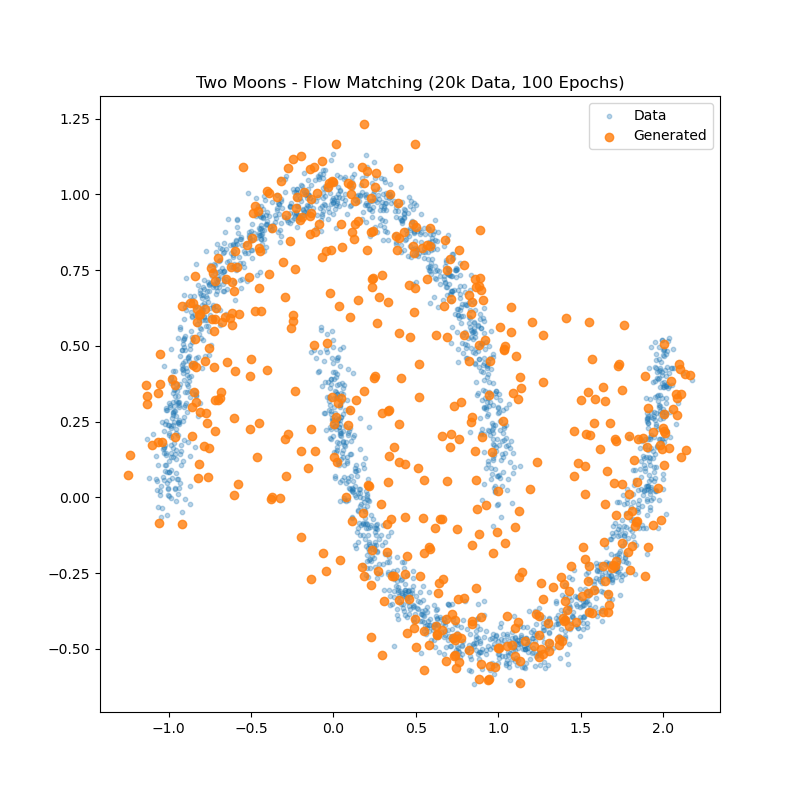
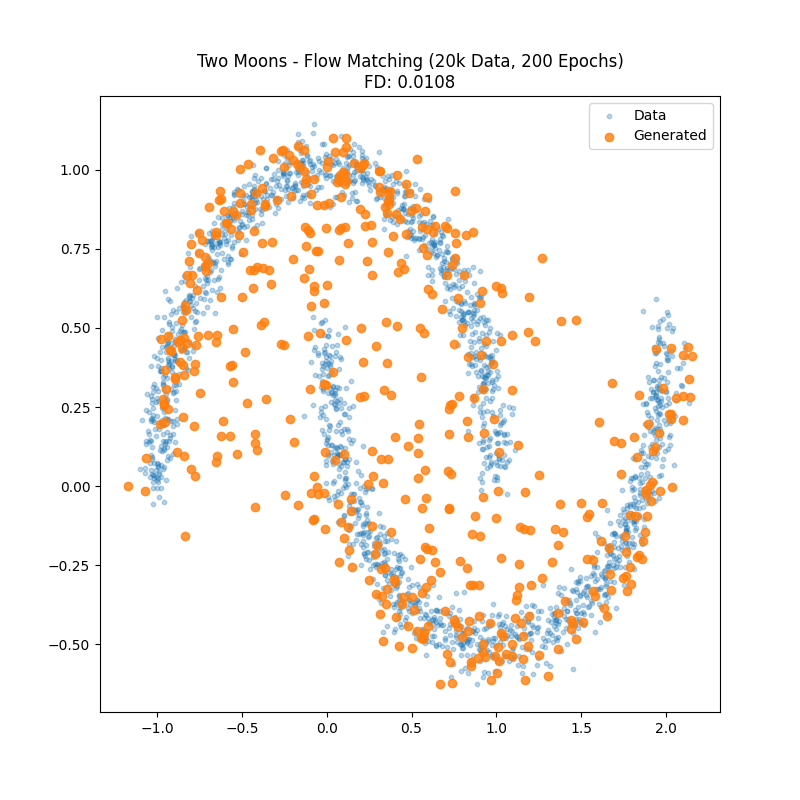
Fix CFG unconditional sampling and add Fréchet distance evaluation to examples

diff --git a/examples/two_moons_diffusion.py b/examples/two_moons_diffusion.py
@@ -12,6 +12,7 @@ from generative_lib.diffusion.trainer.base import BaseDiffusionTrainer
 from generative_lib.diffusion.sampler.base import BaseDiffusionSampler
 from generative_lib.utils.logger import Logger
 from generative_lib.utils.tracker import ModelTracker
+from generative_lib.metrics.distance import calculate_frechet_distance, compute_statistics
 
 # 1. Model Definition
 class SinusoidalPosEmb(nn.Module):
@@ -49,7 +50,6 @@ class SimpleMLP(nn.Module):
         if t.dtype == torch.float: t = (t * 1000).long().clamp(0, 999)
         elif t.ndim == 2: t = t.squeeze(-1).long()
         t_emb = self.time_mlp(t)
-        if condition is None: condition = torch.zeros(x.shape[0], 1, device=x.device)
         inp = torch.cat([x, condition, t_emb], dim=-1)
         return self.net(inp)
 
@@ -86,15 +86,15 @@ def main():
         method=method,
         model=model,
         optimizer=optimizer,
-        feature_keys=["position"],
-        label_keys=["class"], 
+        feature_keys=["class"],
+        label_keys=["position"], 
         device=device,
         tracker=tracker
     )
     
     # 4. Train
     print("Training CFG Diffusion (Dual Loss)...")
-    trainer.fit(train_loader, epochs=50) # 50 epochs for speed
+    trainer.fit(train_loader, epochs=200) # 200 epochs
     
     # 5. Sampling
     print("Sampling Comparison...")
@@ -105,31 +105,45 @@ def main():
     
     # Sampler 1: DDPM (Standard)
     # w=1.0 means cond only (no guidance)
-    sampler_ddpm = BaseDiffusionSampler(method, model, device, steps=50, sampler_type="ddpm", guidance_scale=1.0, label_keys=["class"])
+    sampler_ddpm = BaseDiffusionSampler(method, model, device, steps=50, sampler_type="ddpm", guidance_scale=1.0, feature_keys=["class"])
     s_ddpm = sampler_ddpm.sample(num_samples=1, shape=[2], condition=cond).squeeze(1).detach().cpu().numpy()
     
     # Sampler 2: DDIM (Deterministic) w=1.0
-    sampler_ddim = BaseDiffusionSampler(method, model, device, steps=50, sampler_type="ddim", guidance_scale=1.0, label_keys=["class"])
+    sampler_ddim = BaseDiffusionSampler(method, model, device, steps=50, sampler_type="ddim", guidance_scale=1.0, feature_keys=["class"])
     s_ddim = sampler_ddim.sample(num_samples=1, shape=[2], condition=cond).squeeze(1).detach().cpu().numpy()
     
     # Sampler 3: DDIM with CFG w=3.0
-    sampler_cfg = BaseDiffusionSampler(method, model, device, steps=50, sampler_type="ddim", guidance_scale=3.0, unconditional_value=-1.0, label_keys=["class"])
+    sampler_cfg = BaseDiffusionSampler(method, model, device, steps=50, sampler_type="ddim", guidance_scale=3.0, unconditional_value=-1.0, feature_keys=["class"])
     s_cfg = sampler_cfg.sample(num_samples=1, shape=[2], condition=cond).squeeze(1).detach().cpu().numpy()
+    
+    print("Computing metrics...")
+    mu_real, sig_real = compute_statistics(X_norm)
+    mu_ddpm, sig_ddpm = compute_statistics(s_ddpm)
+    fd_ddpm = calculate_frechet_distance(mu_real, sig_real, mu_ddpm, sig_ddpm)
+    print(f"FD DDPM (w=1.0): {fd_ddpm:.4f}")
+    
+    mu_ddim, sig_ddim = compute_statistics(s_ddim)
+    fd_ddim = calculate_frechet_distance(mu_real, sig_real, mu_ddim, sig_ddim)
+    print(f"FD DDIM (w=1.0): {fd_ddim:.4f}")
+    
+    mu_cfg, sig_cfg = compute_statistics(s_cfg)
+    fd_cfg = calculate_frechet_distance(mu_real, sig_real, mu_cfg, sig_cfg)
+    print(f"FD DDIM CFG (w=3.0): {fd_cfg:.4f}")
     
     # 6. Plot
     fig, axes = plt.subplots(1, 3, figsize=(18, 6))
     
-    def plot_data(ax, data, title):
+    def plot_data(ax, data, title, fd):
         # Denorm
         d = data * X_std + X_mean
         ax.scatter(d[:250, 0], d[:250, 1], c='cyan', label='Class 0', alpha=0.6, s=10)
         ax.scatter(d[250:, 0], d[250:, 1], c='orange', label='Class 1', alpha=0.6, s=10)
-        ax.set_title(title)
+        ax.set_title(f"{title}\nFD: {fd:.4f}")
         ax.legend()
 
-    plot_data(axes[0], s_ddpm, "DDPM (w=1.0)")
-    plot_data(axes[1], s_ddim, "DDIM (w=1.0)")
-    plot_data(axes[2], s_cfg, "DDIM CFG (w=3.0)")
+    plot_data(axes[0], s_ddpm, "DDPM (w=1.0)", fd_ddpm)
+    plot_data(axes[1], s_ddim, "DDIM (w=1.0)", fd_ddim)
+    plot_data(axes[2], s_cfg, "DDIM CFG (w=3.0)", fd_cfg)
     
     plt.tight_layout()
     plt.savefig("examples/two_moons_cfg_comparison.png")

diff --git a/examples/two_moons_flow.py b/examples/two_moons_flow.py
@@ -9,6 +9,7 @@ from generative_lib.flow_matching.method.flow_matching import FlowMatching
 from generative_lib.flow_matching.trainer.base import BaseFlowMatchingTrainer
 from generative_lib.flow_matching.sampler.base import BaseFlowMatchingSampler
 from generative_lib.utils.logger import Logger
+from generative_lib.metrics.distance import calculate_frechet_distance, compute_statistics
 
 class SimpleMLP(nn.Module):
     def __init__(self, in_features=2, hidden_features=64):
@@ -50,14 +51,14 @@ def main():
         method=method,
         model=model,
         optimizer=optimizer,
-        feature_keys=["features"],
-        label_keys=[], 
+        feature_keys=[],
+        label_keys=["features"], 
         device=device
     )
     
     # 4. Train
-    print("Training Flow Matching (20k samples, 100 epochs)...")
-    trainer.fit(train_loader, epochs=100)
+    print("Training Flow Matching (20k samples, 200 epochs)...")
+    trainer.fit(train_loader, epochs=200)
     
     # 5. Sample
     print("Sampling...")
@@ -74,6 +75,12 @@ def main():
     # 6. Verify
     samples_np = samples.detach().cpu().numpy()
     
+    print("Computing metrics...")
+    mu_real, sig_real = compute_statistics(X)
+    mu_gen, sig_gen = compute_statistics(samples_np)
+    fd_flow = calculate_frechet_distance(mu_real, sig_real, mu_gen, sig_gen)
+    print(f"FD Flow Matching: {fd_flow:.4f}")
+    
     # Plot results
     # Downsample Data for plot clarity
     X_plot = X[:2000]
@@ -82,7 +89,7 @@ def main():
     plt.scatter(X_plot[:, 0], X_plot[:, 1], alpha=0.3, label="Data", s=10)
     plt.scatter(samples_np[:, 0], samples_np[:, 1], alpha=0.8, label="Generated")
     plt.legend()
-    plt.title("Two Moons - Flow Matching (20k Data, 100 Epochs)")
+    plt.title(f"Two Moons - Flow Matching (20k Data, 200 Epochs)\nFD: {fd_flow:.4f}")
     plt.savefig("examples/two_moons_flow.png")
     print("Saved plot to examples/two_moons_flow.png")
 

diff --git a/generative_lib/flow_matching/sampler/base.py b/generative_lib/flow_matching/sampler/base.py
@@ -8,8 +8,8 @@ from ...core.base_method import BaseMethod
 class BaseFlowMatchingSampler(BaseSampler):
     """Sampler for Flow Matching models."""
 
-    def __init__(self, method: BaseMethod, model: torch.nn.Module, device: str, steps: int = 50, label_keys: Optional[List[str]] = None):
-        super().__init__(method, model, device, label_keys=label_keys)
+    def __init__(self, method: BaseMethod, model: torch.nn.Module, device: str, steps: int = 50, feature_keys: Optional[List[str]] = None):
+        super().__init__(method, model, device, feature_keys=feature_keys)
         self.steps = steps
 
     def sample(

diff --git a/generative_lib/core/base_trainer.py b/generative_lib/core/base_trainer.py
@@ -101,10 +101,13 @@ class BaseTrainer(ABC):
             else:
                 raise ValueError(f"Feature key '{k}' not found in batch keys: {list(batch.keys())}")
         # print(len(cond))
-        if len(cond) > 1:
-            cond = torch.cat(cond, dim=-1)
+        if cond:
+            if len(cond) > 1:
+                cond = torch.cat(cond, dim=-1)
+            else:
+                cond = cond[0]
         else:
-            cond = cond[0]
+            cond = None
 
         # Extract Labels (x)
         x = None

diff --git a/generative_lib/flow_matching/method/flow_matching.py b/generative_lib/flow_matching/method/flow_matching.py
@@ -55,11 +55,9 @@ class FlowMatching(BaseMethod):
         
         # 4. Compute Loss
         # Target v = x1 - (1 - sigma_min) x0
-        target = x - (1 - self.sigma_min) * x0
+        target = x - (1 - self.sigma_min) * x_0
         loss = torch.nn.functional.mse_loss(v_pred, target)
         return {"loss": loss}
 
     def get_snr(self, t: torch.Tensor) -> torch.Tensor:
         """SNR not typically defined for FM in same way as Diffusion."""
-        return torch.ones_like(t) # Placeholder
-```

diff --git a/README.md b/README.md
@@ -6,7 +6,7 @@ A modular, extensible PyTorch library for generative models, currently supportin
 
 - **Modular Design**: unified `BaseMethod`, `BaseTrainer`, and `BaseSampler` API.
 - **Multiple Methods**:
-  - Gaussian Diffusion (DDPM)
+  - Gaussian Diffusion (DDPM) and Classifier-Free Guidance (CFG Diffusion)
   - Flow Matching (Optimal Transport Conditional Flow Matching)
   - Consistency Models (Skeleton)
 - **Experiment Tracking**: First-class **MLflow** integration for metrics, parameters, and artifact logging.
@@ -30,9 +30,9 @@ pip install -r requirements.txt
 generative_lib/
 ├── core/               # Abstract base classes (Method, Trainer, Sampler)
 ├── diffusion/          # Gaussian Diffusion implementation
-│   ├── method/         # DDPM logic
-│   ├── sampler/        # Sampling strategies
-│   └── trainer/        # Diffusion-specific trainer
+│   ├── method/         # DDPM and CFG logic
+│   ├── sampler/        # Sampling strategies (base.py)
+│   └── trainer/        # Diffusion-specific trainer (base.py)
 ├── flow_matching/      # Flow Matching implementation
 ├── consistency_model/  # Consistency Model implementation
 └── utils/              # Logger, ModelTracker, etc.
@@ -54,59 +54,90 @@ class MyDataset(torch.utils.data.Dataset):
     def __getitem__(self, idx):
         # ... logic to load data ...
         return {
-            "image": img_tensor,       # The data to generate
-            "class_label": label,      # Conditional label
-            "meta_info": some_meta     # Other info
+            "x": cond_tensor,          # The conditioning features
+            "y": target_tensor,        # The target data to generate/denoise
+            "info": some_meta          # Other info
         }
-```
-
-**Trainer Configuration:**
-
-When initializing the **Trainer**, you specify which keys correspond to what:
-
-```python
-trainer = BaseDiffusionTrainer(
-    method=method,
-    model=model,
-    optimizer=optimizer,
-    # Map dataset keys to model interactions
-    feature_keys=["image"],    # Keys treated as 'x' (target)
-    label_keys=["class_label"] # Keys treated as 'condition'
-)
 ```
 
 ### 2. Training Example (Diffusion)
 
+Here is a typical workflow for training a Diffusion model (as seen in `experiments/04_diffusion`):
+
 ```python
 from generative_lib.diffusion.method.gaussian_diffusion import GaussianDiffusion
+from generative_lib.diffusion.method.cfg_diffusion import CFGDiffusion
 from generative_lib.diffusion.trainer.base import BaseDiffusionTrainer
 from generative_lib.utils.logger import Logger
 from generative_lib.utils.tracker import ModelTracker
 
-# 1. Setup Method
-method = GaussianDiffusion(timesteps=1000)
+# 1. Setup Method (DDPM or CFG)
+method = GaussianDiffusion(timesteps=1000, schedule="linear")
+# OR for CFG: method = CFGDiffusion(timesteps=1000, schedule="linear", unconditional_value=0.0)
 
 # 2. Setup Logger & Tracker
-logger = Logger(project_name="MyProject", use_mlflow=True, mlflow_uri="file:./examples/mlruns")
-tracker = ModelTracker(exp_name="MyExp", model_name="Diff", logger=logger)
+logger = Logger(
+    project_name="MyProject", 
+    run_name="gaussian_simple_mlp", 
+    use_mlflow=True, 
+    mlflow_uri="file:./mlruns"
+)
+tracker = ModelTracker(
+    exp_name="MyProject", 
+    model_name="gaussian_simple_mlp", 
+    save_dir="./checkpoints/MyProject_gaussian_simple_mlp", 
+    logger=logger
+)
 
 # 3. Setup Trainer
+# feature_keys: Data to denoise (usually target 'y')
+# label_keys: Condition (usually features 'x')
 trainer = BaseDiffusionTrainer(
     method=method,
     model=my_model,
     optimizer=my_opt,
-    feature_keys=["image"],
-    label_keys=["class_label"],
+    feature_keys=["x"], 
+    label_keys=["y"], 
+    device="cuda:0",
     tracker=tracker
 )
 
 # 4. Train
-trainer.fit(dataloader, epochs=100, resume=True)
+trainer.fit(train_dataloader, val_loader=val_dataloader, epochs=100, resume=True)
 ```
 
-### 3. MLflow Logging
+### 3. Inference Example (Sampling)
 
-- **View UI**: Run `mlflow ui` inside the `examples/` directory (or wherever your `mlruns` are stored).
+After training, you can generate samples using the `BaseDiffusionSampler` and best weights from the tracker:
+
+```python
+from generative_lib.diffusion.sampler.base import BaseDiffusionSampler
+
+# 1. Load best model weights
+ckpt = tracker.load_best(my_model)
+my_model.load_state_dict(ckpt['model_state'])
+
+# 2. Setup Sampler
+sampler = BaseDiffusionSampler(
+    method=method, 
+    model=my_model, 
+    device="cuda:0", 
+    steps=100, 
+    feature_keys=["x"]
+)
+
+# 3. Batch Sample
+# Generate num_samples candidates per instance in the dataloader
+generated_samples = sampler.batch_sample(
+    num_samples=10,
+    shape=(1,), # Modify shape according to the target dimension
+    dataloader=test_dataloader
+)
+```
+
+### 4. MLflow Logging
+
+- **View UI**: Run `mlflow ui` inside the directory where your `mlruns` are stored.
 - **Resume**: If `resume=True`, the trainer will look for the last checkpoint and automatically attach to the **same** MLflow Run ID, ensuring continuous learning curves.
 
 ## 📝 Examples
